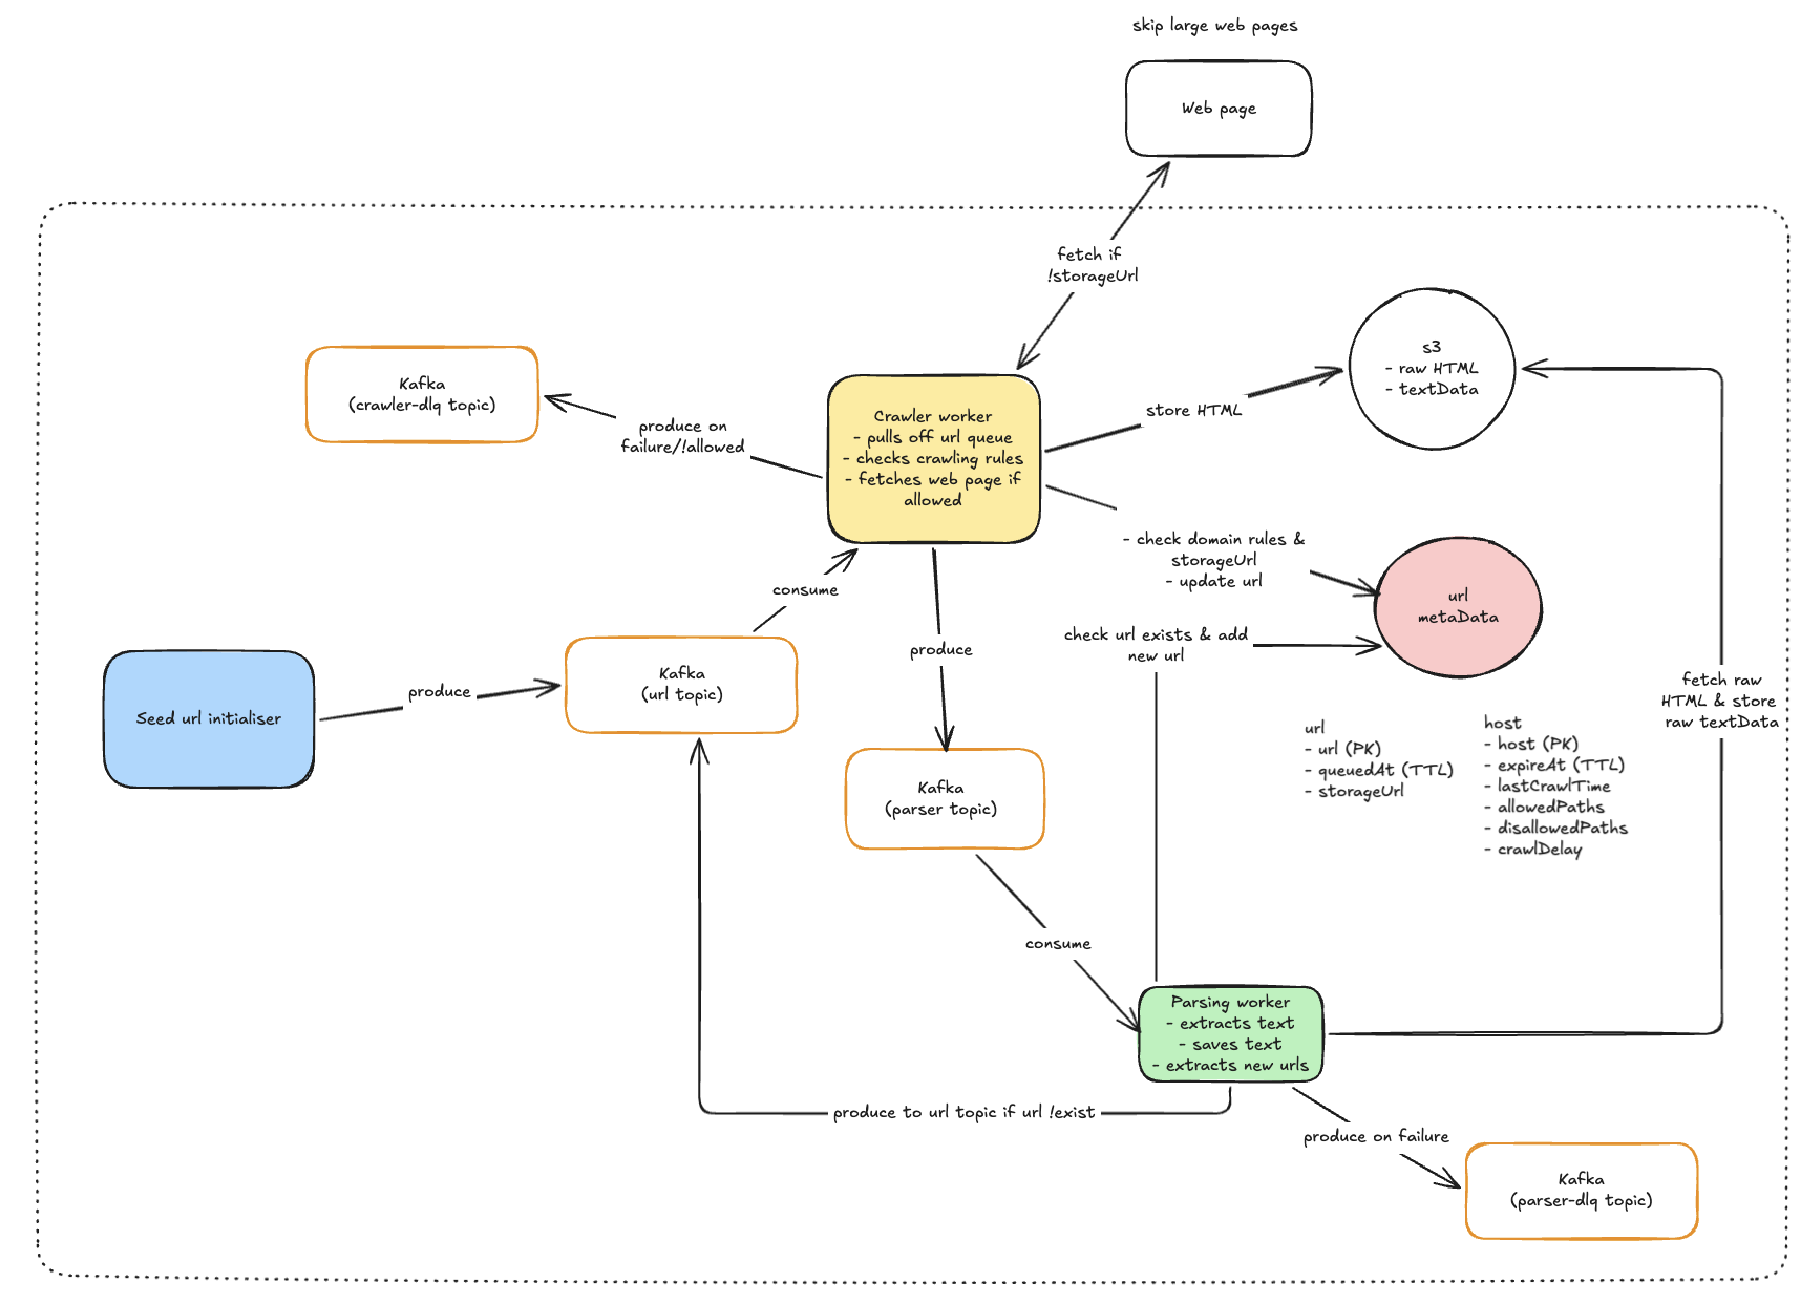
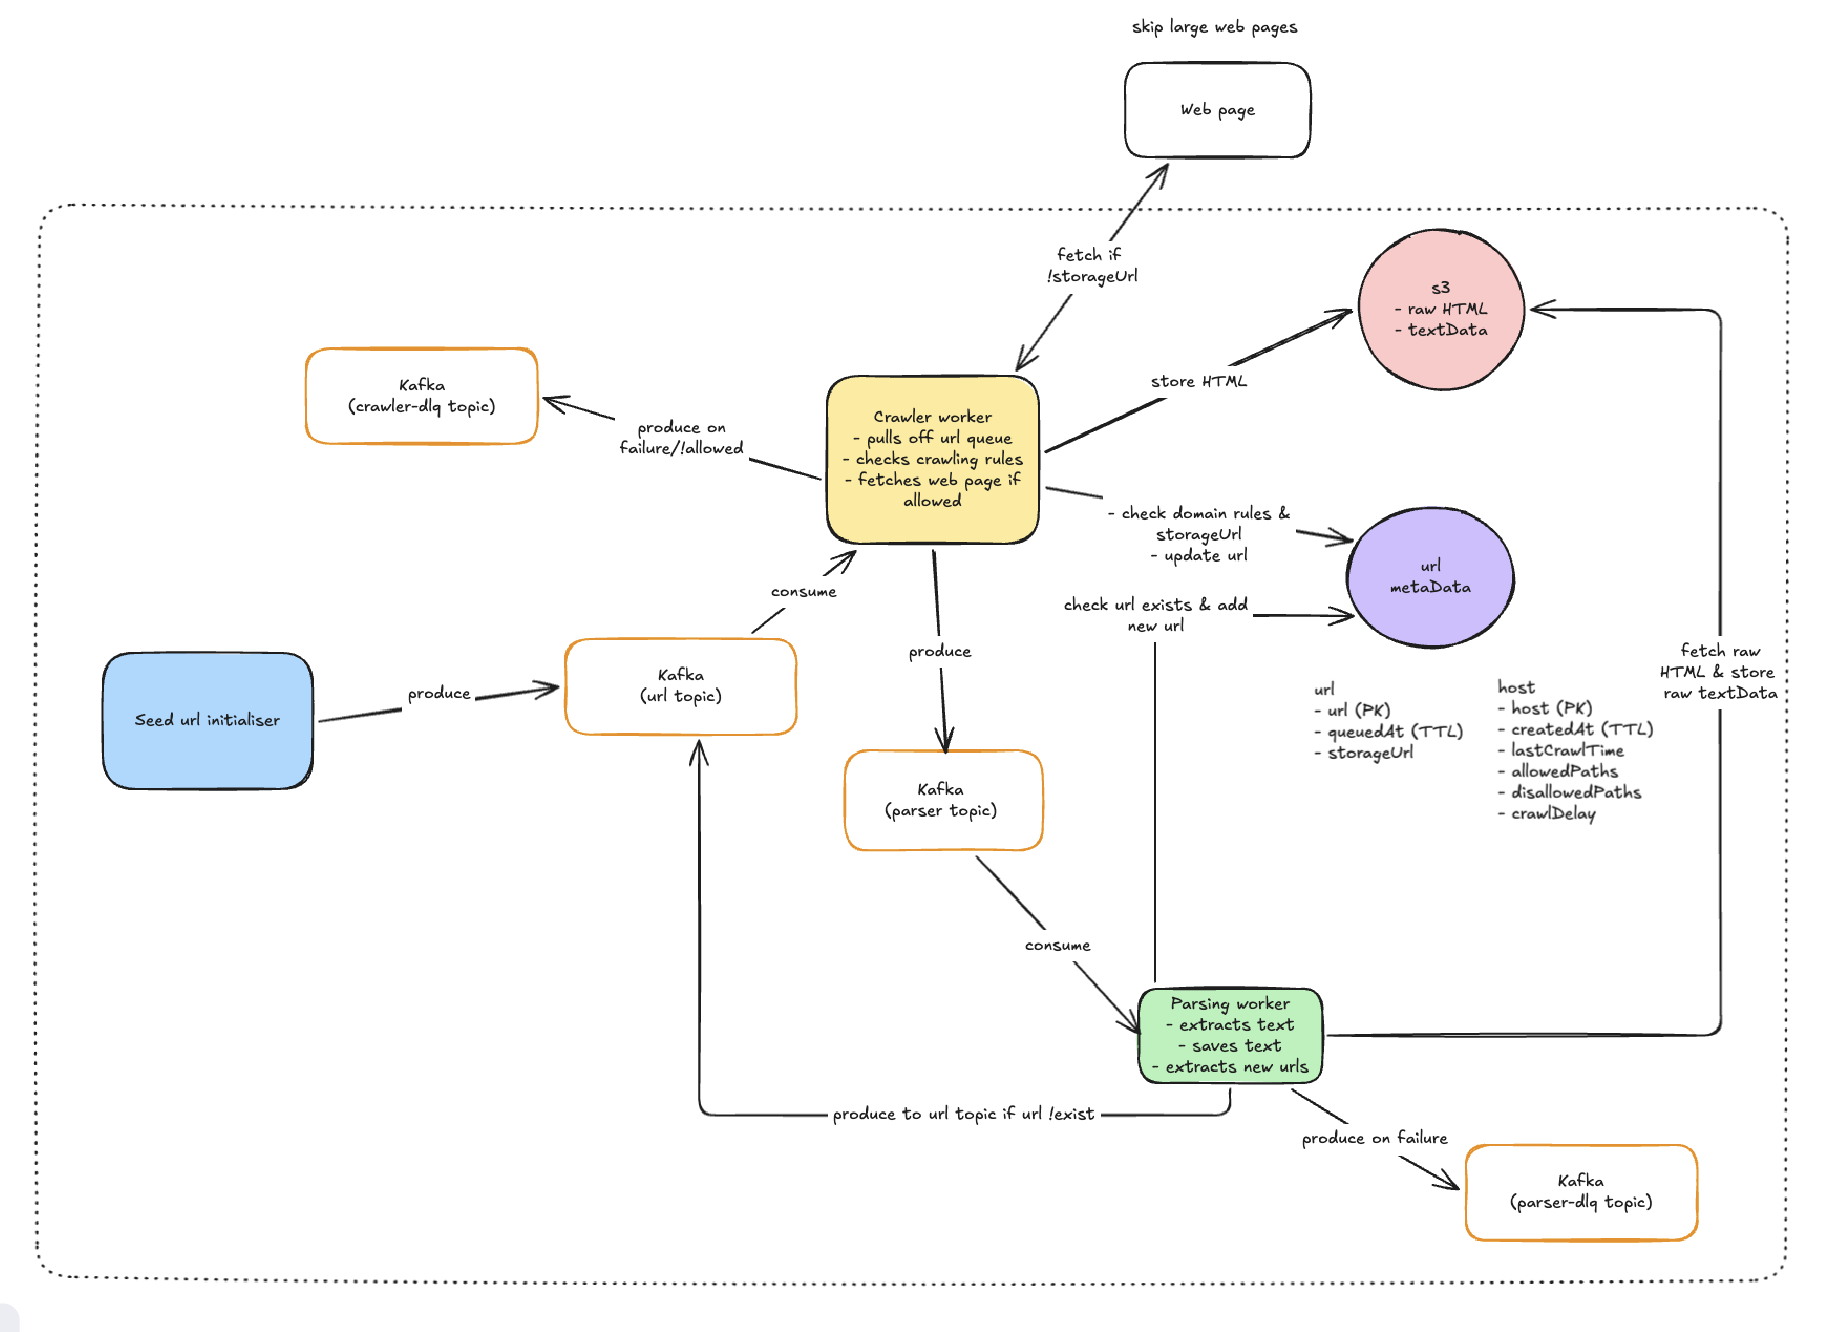
Updated app architecture diagram & added createdAt property on new host insertion

Changed region(s): [[0.0308, 0.0, 0.9868, 0.9509], [0.4317, 0.4908, 0.4626, 0.5521], [0.9559, 0.1534, 0.9868, 0.184]]

diff --git a/services/crawler/consumer/ratelimit.go b/services/crawler/consumer/ratelimit.go
@@ -82,15 +82,17 @@ func (c *Consumer) handleNewRobots(ctx context.Context, hostRecord *hostRecord, 
 	}
 
 	type hostDoc struct {
-		ID     string `bson:"_id"`
-		Robots robots `bson:"robots"`
+		ID        string    `bson:"_id"`
+		CreatedAt time.Time `bson:"createdAt"`
+		Robots    robots    `bson:"robots"`
 	}
 
 	writeCtx, cancelWriteCtx := context.WithTimeout(ctx, dbTimeout)
 	defer cancelWriteCtx()
 	_, err = c.db.hostCollection.InsertOne(writeCtx, hostDoc{
-		ID:     host,
-		Robots: hostRecord.Robots,
+		ID:        host,
+		CreatedAt: time.Now(),
+		Robots:    hostRecord.Robots,
 	})
 	if err != nil {
 		return fmt.Errorf("add new host to db %v", err)

diff --git a/services/crawler/consumer/consumer.go b/services/crawler/consumer/consumer.go
@@ -72,7 +72,7 @@ func New(
 
 	idxCtx, cancelIdxCtx := context.WithTimeout(ctx, dbTimeout)
 	defer cancelIdxCtx()
-	if err := dbClient.CreateTTLIndex(idxCtx, dbCfg.Name, dbCfg.HostCollection, "expireAt", hostTTL); err != nil {
+	if err := dbClient.CreateTTLIndex(idxCtx, dbCfg.Name, dbCfg.HostCollection, "createdAt", hostTTL); err != nil {
 		return nil, fmt.Errorf("create host TTL index: %v", err)
 	}
 